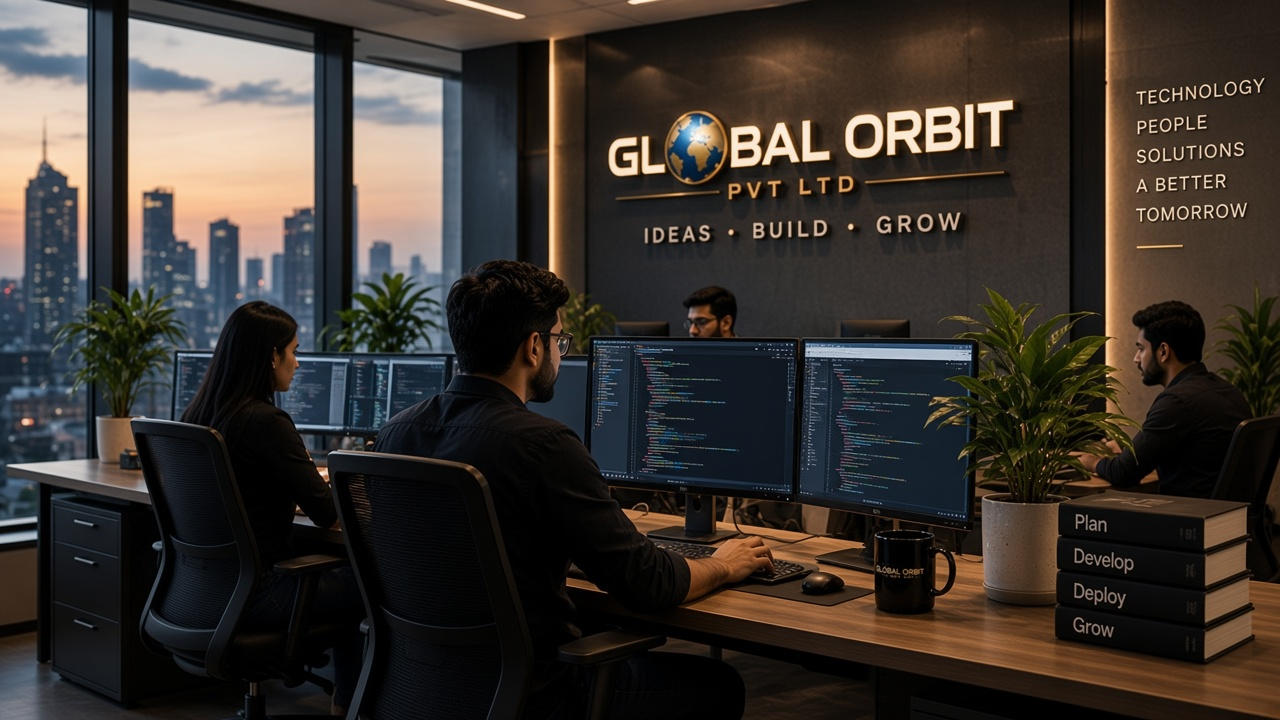
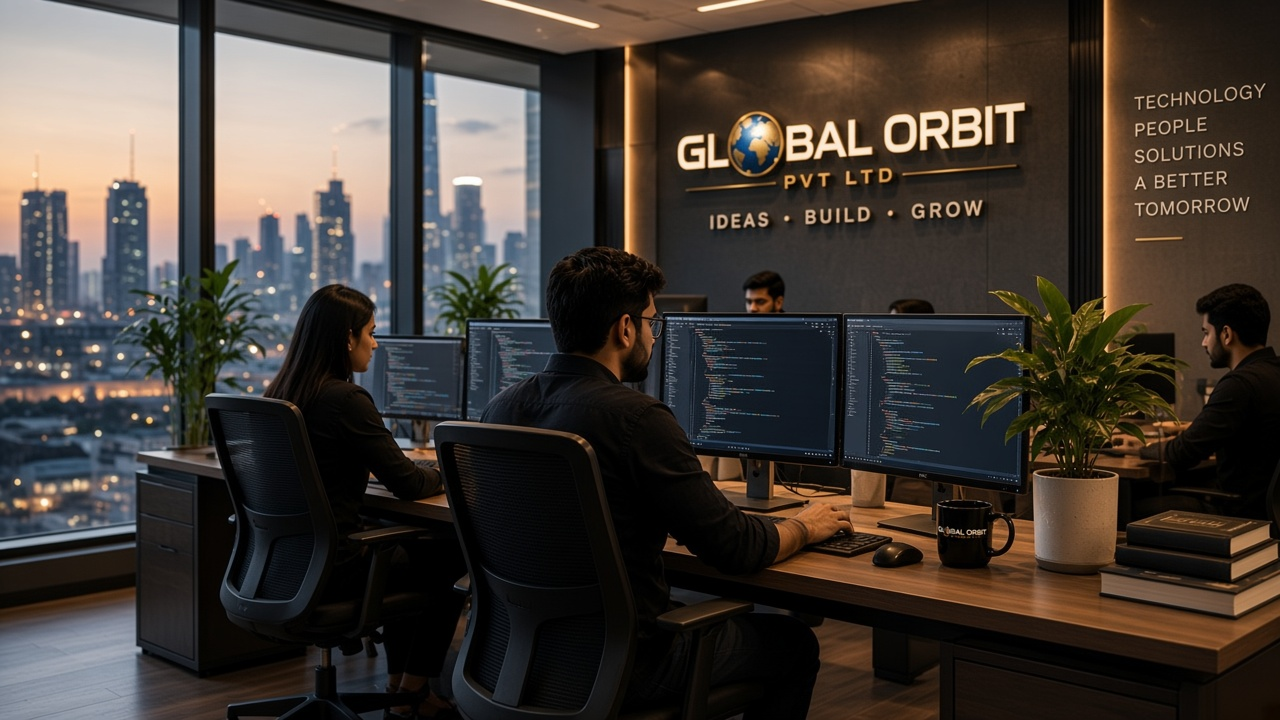
Redesign homepage hero and header to match the brand mock.
Use a generated office photograph as background, a 240px logo, and the same gold-on-black first screen without pasting the reference image.

diff --git a/components/layout/site-header.tsx b/components/layout/site-header.tsx
@@ -2,7 +2,6 @@ import Link from "next/link";
 import { BrandLogo } from "@/components/brand/brand-logo";
 import { IconMail, IconSearch } from "@/components/home/hero-icons";
 import { NavLinks } from "@/components/layout/nav-links";
-import { Container } from "@/components/ui/container";
 import { BRAND_CONTACT } from "@/lib/home-content";
 import type { FallbackNavItem } from "@/lib/site";
 
@@ -13,56 +12,71 @@ type SiteHeaderProps = {
   phone?: string;
 };
 
+function PhoneIcon() {
+  return (
+    <svg className="h-3.5 w-3.5" viewBox="0 0 24 24" fill="none" aria-hidden="true">
+      <path
+        d="M6.5 3.8h3.2l1.2 3.2-1.8 1.8a12.5 12.5 0 0 0 6.1 6.1l1.8-1.8 3.2 1.2v3.2c0 .9-.7 1.7-1.6 1.8C10.2 20.1 3.9 13.8 2.7 5.4 2.6 4.5 3.4 3.8 4.3 3.8H6.5Z"
+        stroke="currentColor"
+        strokeWidth="1.6"
+        strokeLinejoin="round"
+      />
+    </svg>
+  );
+}
+
 export function SiteHeader({ items, email, phone }: SiteHeaderProps) {
   const displayPhone = phone || BRAND_CONTACT.phone;
   const displayEmail = email || BRAND_CONTACT.email;
 
   return (
-    <header className="sticky top-0 z-50 bg-[#050505] text-white">
-      <div className="hidden border-b border-white/10 bg-[#080808] text-[11px] text-white/60 lg:block">
-        <Container className="flex items-center justify-between gap-4 py-[7px]">
-          <p className="tracking-[0.18em] uppercase">Ideas · Build · Grow Globally</p>
-          <div className="flex items-center gap-5 tracking-normal">
-            <a href={`tel:${displayPhone.replace(/\s/g, "")}`}>{displayPhone}</a>
-            <a href={`mailto:${displayEmail}`}>{displayEmail}</a>
-            <Link href="/contact" className="hover:text-[var(--color-gold)]">
-              Client Portal
-            </Link>
-            <Link href="/contact" className="hover:text-[var(--color-gold)]">
-              Support
-            </Link>
+    <header className="relative z-50 bg-black text-white">
+      <div className="hidden border-b border-white/10 bg-[#070707] lg:block">
+        <div className="mx-auto flex h-8 max-w-[1360px] items-center justify-between px-8 text-[11px] text-white/70">
+          <p className="tracking-[0.22em] uppercase">Ideas · Build · Grow Globally</p>
+          <div className="flex items-center gap-5">
+            <a className="inline-flex items-center gap-1.5" href={`tel:${displayPhone.replace(/\s/g, "")}`}>
+              <PhoneIcon />
+              {displayPhone}
+            </a>
+            <a className="inline-flex items-center gap-1.5" href={`mailto:${displayEmail}`}>
+              <IconMail className="h-3.5 w-3.5" />
+              {displayEmail}
+            </a>
+            <Link href="/contact">Client Portal</Link>
+            <Link href="/contact">Support</Link>
           </div>
-        </Container>
+        </div>
       </div>
-      <Container className="flex flex-col gap-3 py-2 lg:flex-row lg:items-center lg:gap-5 lg:py-1.5">
+      <div className="mx-auto flex max-w-[1360px] flex-col gap-3 px-5 py-2 sm:px-8 lg:h-[78px] lg:flex-row lg:items-center lg:gap-8 lg:py-0">
         <BrandLogo priority />
         <nav aria-label="Primary" className="lg:flex-1">
           <NavLinks items={items} variant="headerDark" />
         </nav>
-        <div className="flex flex-wrap items-center gap-2">
+        <div className="flex flex-wrap items-center gap-2.5">
           <Link
             href="/news"
-            aria-label="Search news"
-            className="inline-flex h-9 w-9 items-center justify-center rounded-full border border-white/15 text-white/80 hover:border-[var(--color-gold)] hover:text-[var(--color-gold)]"
+            aria-label="Search"
+            className="inline-flex h-10 w-10 items-center justify-center rounded-full border border-white/20"
           >
-            <IconSearch />
+            <IconSearch className="h-[15px] w-[15px]" />
           </Link>
           <a
             href={`mailto:${displayEmail}`}
-            className="inline-flex min-h-9 items-center gap-2 rounded-full border border-white/15 px-3 text-xs font-medium text-white/90 hover:border-[var(--color-gold)] hover:text-[var(--color-gold)]"
+            className="inline-flex h-10 items-center gap-2 rounded-full border border-white/20 px-4 text-[12px] font-medium"
           >
-            <IconMail />
+            <IconMail className="h-4 w-4" />
             Business Mail
           </a>
           <Link
             href="/contact"
-            className="inline-flex min-h-9 items-center gap-1 rounded-full bg-[var(--color-gold)] px-4 text-xs font-semibold text-[#111] hover:bg-[var(--color-gold-light)]"
+            className="inline-flex h-10 items-center gap-1.5 rounded-full bg-[#d4a017] px-5 text-[12px] font-semibold text-[#1a1408]"
           >
             Get a Quote
             <span aria-hidden="true">→</span>
           </Link>
         </div>
-      </Container>
+      </div>
     </header>
   );
 }

diff --git a/components/home/home-hero.tsx b/components/home/home-hero.tsx
@@ -1,7 +1,6 @@
 import Image from "next/image";
 import Link from "next/link";
 import { HERO_FEATURE_ICONS } from "@/components/home/hero-icons";
-import { Container } from "@/components/ui/container";
 import { HOME_HERO_FEATURES, HOME_POSITIONING } from "@/lib/home-content";
 
 export function HomeHero() {
@@ -17,41 +16,41 @@ export function HomeHero() {
           fill
           priority
           sizes="100vw"
-          className="object-cover object-[62%_42%]"
+          className="object-cover object-[70%_45%]"
         />
-        <div className="absolute inset-0 bg-[linear-gradient(90deg,rgba(0,0,0,0.92)_0%,rgba(0,0,0,0.72)_32%,rgba(0,0,0,0.28)_58%,rgba(0,0,0,0.08)_100%)]" />
+        <div className="absolute inset-0 bg-[linear-gradient(90deg,#000_0%,rgba(0,0,0,0.82)_28%,rgba(0,0,0,0.35)_52%,rgba(0,0,0,0.12)_100%)]" />
       </div>
-      <Container className="relative flex min-h-[420px] flex-col justify-between gap-10 py-10 sm:min-h-[480px] sm:py-12 lg:min-h-[520px] lg:py-14">
-        <div className="max-w-[540px]">
-          <p className="text-[11px] font-semibold uppercase tracking-[0.34em] text-[#d4a017] sm:text-xs">
+      <div className="relative mx-auto flex min-h-[560px] max-w-[1360px] flex-col justify-between px-5 pb-8 pt-16 sm:min-h-[600px] sm:px-8 sm:pb-10 sm:pt-[72px] lg:min-h-[640px]">
+        <div className="max-w-[560px]">
+          <p className="text-[12px] font-semibold uppercase tracking-[0.36em] text-[#d4a017]">
             Your technology partner
           </p>
           <h1
             id="home-hero-heading"
-            className="mt-4 font-sans text-[2.45rem] font-semibold leading-[1.06] tracking-[-0.035em] text-white sm:text-[3.25rem] lg:text-[3.55rem]"
+            className="mt-5 font-sans text-[42px] font-semibold leading-[1.05] tracking-[-0.04em] text-white sm:text-[56px] lg:text-[62px]"
           >
             Digital Solutions
             <br />
             for a <span className="text-[#d4a017]">Bigger Tomorrow</span>
           </h1>
-          <p className="mt-5 max-w-[460px] text-[13.5px] leading-6 text-white/82 sm:text-[15px] sm:leading-7">
+          <p className="mt-6 max-w-[470px] text-[15px] leading-7 text-white/80">
             {HOME_POSITIONING.lede}
           </p>
-          <div className="mt-8 flex flex-col gap-3 sm:flex-row sm:items-center">
+          <div className="mt-9 flex flex-col gap-3 sm:flex-row sm:items-center">
             <Link
               href={HOME_POSITIONING.primaryCta.href}
-              className="inline-flex h-11 items-center justify-center gap-2 rounded-full bg-[#d4a017] px-6 text-[13px] font-semibold text-[#1a1408]"
+              className="inline-flex h-12 items-center justify-center gap-2 rounded-full bg-[#d4a017] px-7 text-[14px] font-semibold text-[#1a1408]"
             >
               Start Your Project
               <span aria-hidden="true">→</span>
             </Link>
             <Link
               href={HOME_POSITIONING.secondaryCta.href}
-              className="inline-flex h-11 items-center justify-center gap-2 rounded-full border border-white/30 bg-black/25 px-6 text-[13px] font-medium text-white"
+              className="inline-flex h-12 items-center justify-center gap-2 rounded-full border border-white/35 bg-black/20 px-7 text-[14px] font-medium text-white"
             >
               <span
                 aria-hidden="true"
-                className="inline-flex h-[18px] w-[18px] items-center justify-center rounded-full border border-white/60 text-[8px]"
+                className="inline-flex h-5 w-5 items-center justify-center rounded-full border border-white/70 text-[9px]"
               >
                 ▶
               </span>
@@ -59,15 +58,15 @@ export function HomeHero() {
             </Link>
           </div>
         </div>
-        <ul className="grid grid-cols-2 gap-x-6 gap-y-5 sm:grid-cols-4">
+        <ul className="grid max-w-[760px] grid-cols-2 gap-x-8 gap-y-5 sm:grid-cols-4">
           {HOME_HERO_FEATURES.map((item) => {
             const Icon = HERO_FEATURE_ICONS[item.key];
             return (
               <li key={item.key} className="flex items-center gap-3">
                 <span className="text-[#d4a017]">
-                  <Icon className="h-[22px] w-[22px]" />
+                  <Icon className="h-7 w-7" />
                 </span>
-                <span className="text-[12px] font-medium leading-[1.2] text-white">
+                <span className="text-[13px] font-medium leading-[1.15] text-white">
                   {item.title}
                   <br />
                   {item.line}
@@ -76,7 +75,7 @@ export function HomeHero() {
             );
           })}
         </ul>
-      </Container>
+      </div>
     </section>
   );
 }

diff --git a/components/layout/nav-links.tsx b/components/layout/nav-links.tsx
@@ -19,7 +19,7 @@ export function NavLinks({ items, variant = "header" }: NavLinksProps) {
       className={
         isFooter
           ? "mt-4 flex flex-col gap-2.5 text-sm"
-          : "flex flex-wrap items-center gap-x-4 gap-y-2 text-[13px] sm:gap-x-6 sm:text-sm"
+          : "flex flex-wrap items-center gap-x-7 gap-y-2 text-[14px] font-medium"
       }
     >
       {items.map((item) => {
@@ -33,8 +33,8 @@ export function NavLinks({ items, variant = "header" }: NavLinksProps) {
           className += " text-white/70 hover:text-white";
         } else if (isDark) {
           className += current
-            ? " text-[var(--color-gold)] border-b-2 border-[var(--color-gold)] pb-0.5"
-            : " text-white/80 hover:text-[var(--color-gold)]";
+            ? " text-[#d4a017] border-b-2 border-[#d4a017] pb-[3px]"
+            : " text-white/90 hover:text-[#d4a017]";
         } else {
           className += current
             ? " text-[var(--color-ink)]"

diff --git a/components/brand/brand-logo.tsx b/components/brand/brand-logo.tsx
@@ -2,24 +2,23 @@ import Image from "next/image";
 import Link from "next/link";
 
 type BrandLogoProps = {
-  className?: string;
   priority?: boolean;
 };
 
-export function BrandLogo({ className = "", priority = false }: BrandLogoProps) {
+export function BrandLogo({ priority = false }: BrandLogoProps) {
   return (
     <Link
       href="/"
-      className={`relative block h-[58px] w-[168px] shrink-0 overflow-hidden sm:h-[64px] sm:w-[188px] ${className}`.trim()}
+      className="relative block h-[72px] w-[240px] shrink-0 overflow-hidden"
       aria-label="Global Orbit Pvt Ltd"
     >
       <Image
         src="/brand/logo.png"
         alt="Global Orbit Pvt Ltd"
-        fill
+        width={240}
+        height={72}
         priority={priority}
-        sizes="188px"
-        className="scale-[1.72] object-contain object-center"
+        className="h-[72px] w-[240px] scale-[1.85] object-contain object-center"
       />
     </Link>
   );

diff --git a/app/page.tsx b/app/page.tsx
@@ -1,9 +1,4 @@
-import { HomeAbout } from "@/components/home/home-about";
 import { HomeHero } from "@/components/home/home-hero";
-import { HomeServices } from "@/components/home/home-services";
-import { HomeSolutions } from "@/components/home/home-solutions";
-import { HomeWhy } from "@/components/home/home-why";
-import { PageCta } from "@/components/site/page-cta";
 import { getSiteSettings } from "@/lib/db/site-settings";
 import { organizationJsonLd } from "@/lib/seo";
 import { FALLBACK_SITE } from "@/lib/site";
@@ -46,11 +41,6 @@ export default async function HomePage() {
         dangerouslySetInnerHTML={{ __html: JSON.stringify(jsonLd) }}
       />
       <HomeHero />
-      <HomeServices />
-      <HomeAbout />
-      <HomeWhy />
-      <HomeSolutions />
-      <PageCta companyName={companyName} email={settings?.email || undefined} />
     </>
   );
 }
